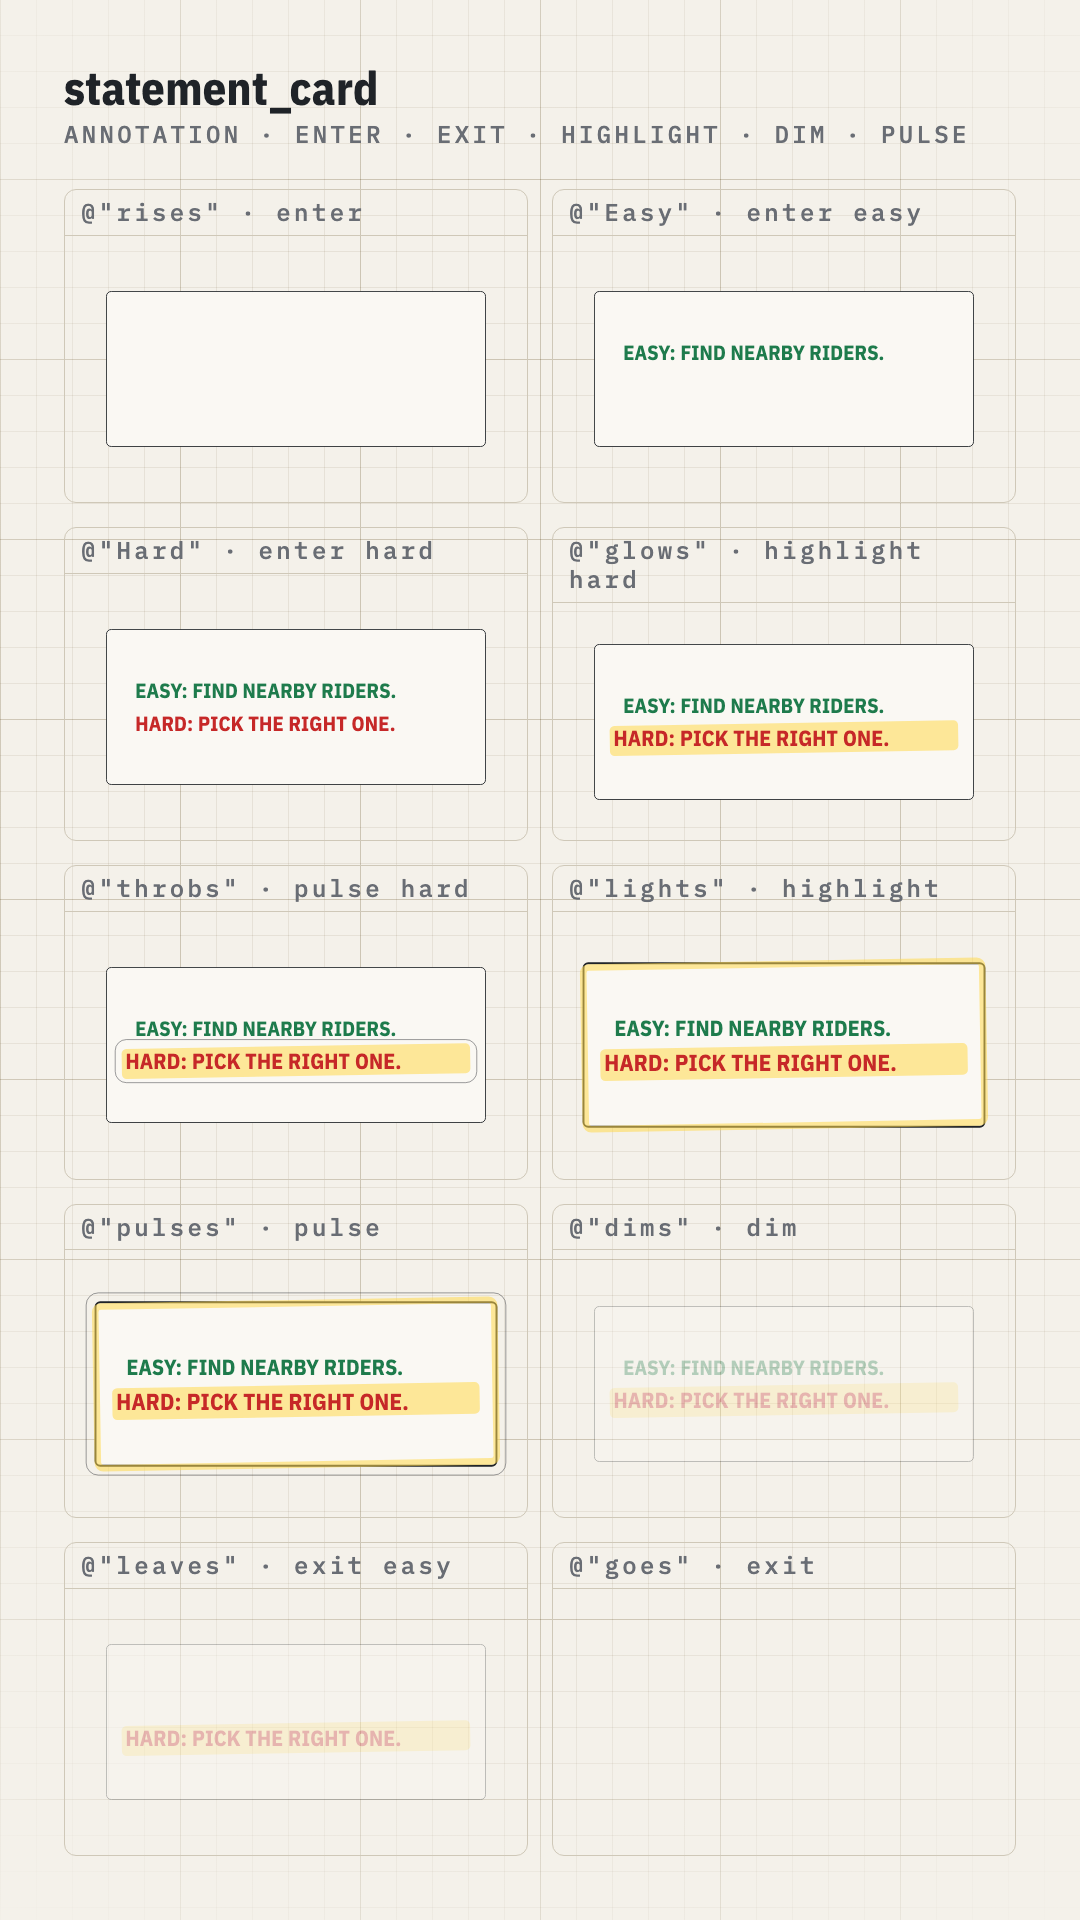
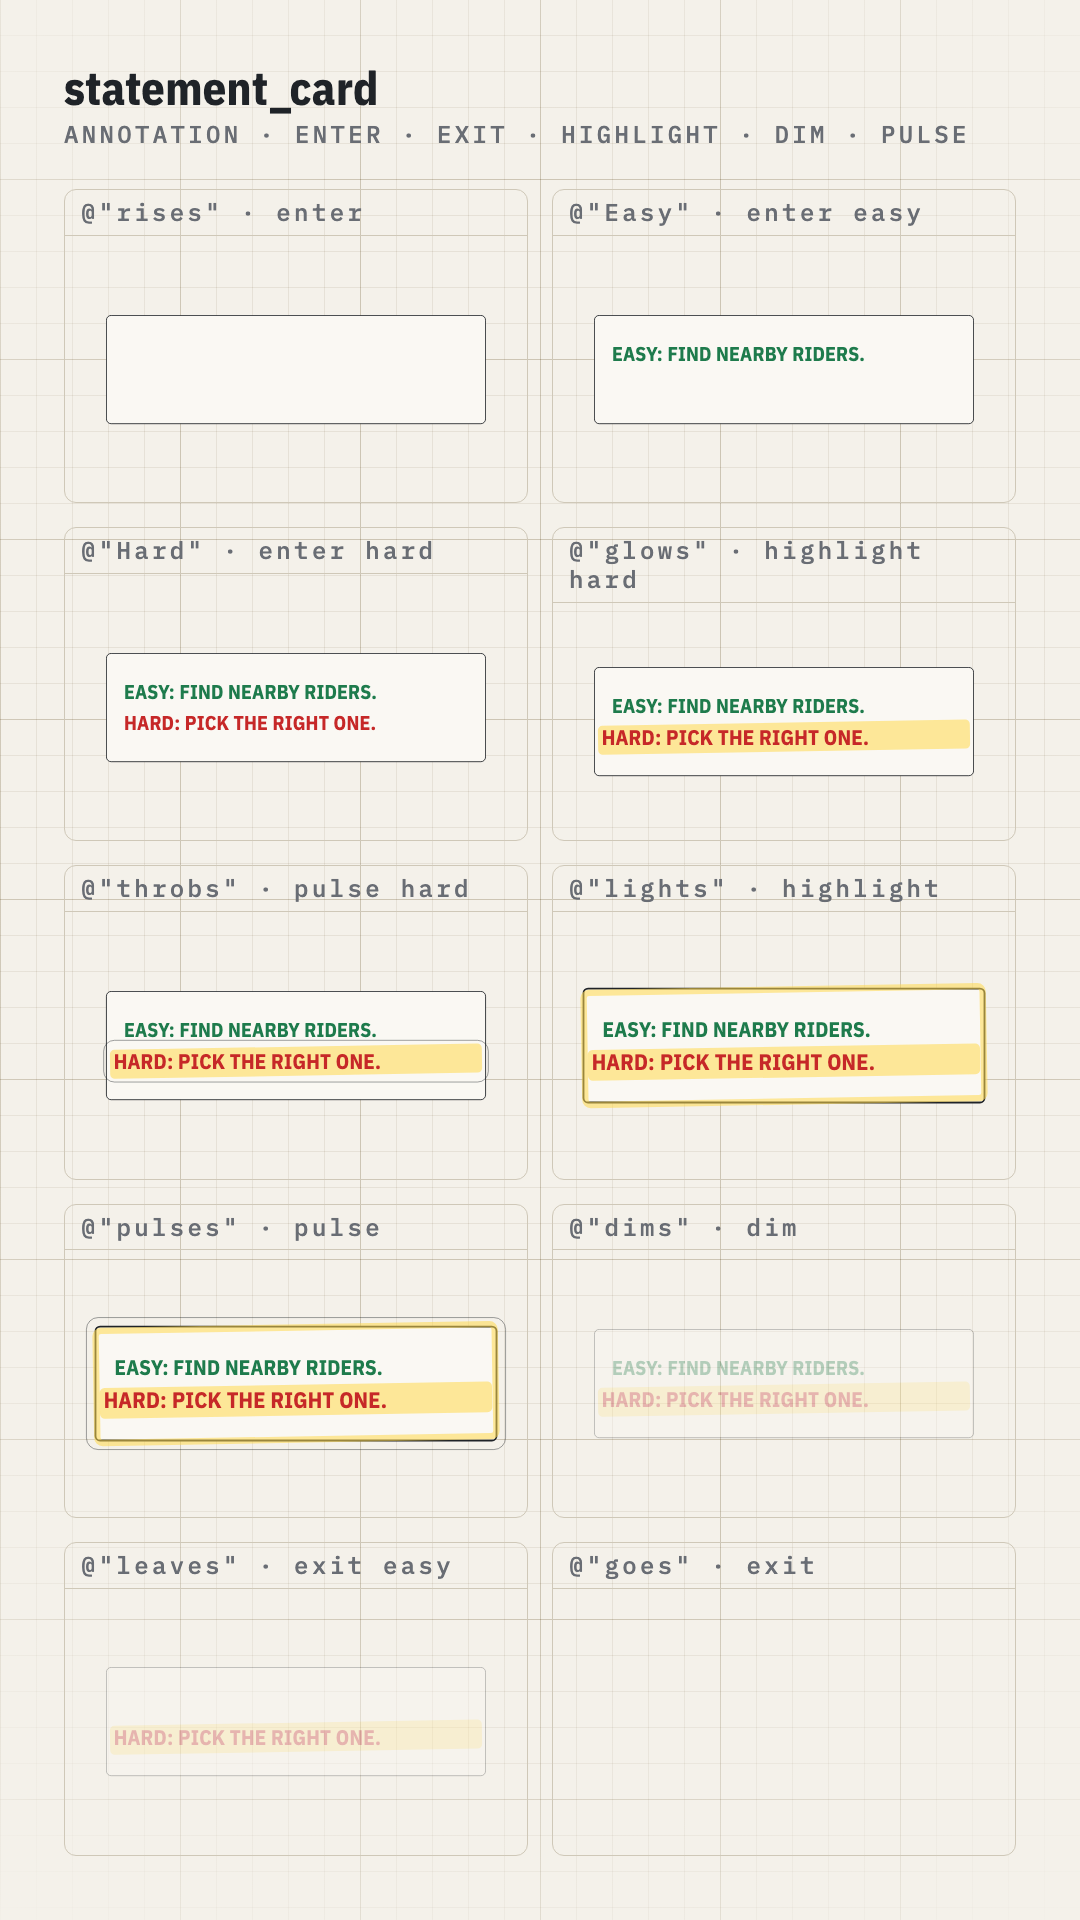
P1A.7b: statement_card at display size; scrim review frames
statement_card lines use the headline display style and the card spans the
stage less a space.md gutter on each side; long lines word-wrap
(wrappedRows) instead of shrinking. Size hints and the catalogue follow:
preferred width is the full span, min width the widest word.

The inset_panel and statement_card beats of InsetRevealBoard get a map_base
behind them, and docs/primitives/overlay-scrim-{statement,inset}.png show one
mid-beat frame of each (scene + scrim + overlay) for reviewing scrim strength.

diff --git a/packages/renderer/src/primitives/statement-card/definition.ts b/packages/renderer/src/primitives/statement-card/definition.ts
@@ -1,12 +1,12 @@
 import { z } from 'zod';
-import type { Theme } from '../../theme/index.ts';
+import { safeAreas, type Theme } from '../../theme/index.ts';
 import { idsOf, lineText, PartIdSchema, partList, semanticProp } from '../common-props.ts';
-import { approxTextWidth, lineHeightPx } from '../measure.ts';
+import { lineHeightPx, widestWord, wrappedRows } from '../measure.ts';
 import { definePrimitive, type SizeHints } from '../types.ts';
 
 export const StatementLineSchema = z.strictObject({
   id: PartIdSchema,
-  text: lineText(32, 'One large line; wraps if the stage is narrow.'),
+  text: lineText(32, 'One large line at display size; wraps rather than shrinking.'),
   semantic: semanticProp('neutral', 'Colour of this line'),
 });
 
@@ -19,30 +19,46 @@ export const StatementCardPropsSchema = z.strictObject({
 });
 export type StatementCardProps = z.output<typeof StatementCardPropsSchema>;
 
-/** Widest the card grows (the stage is 936 px wide); longer lines wrap. */
-export const STATEMENT_MAX_WIDTH = 860;
-const MIN_WIDTH = 480;
+/** Text style of every line: the theme's largest display style; lines wrap, never shrink. */
+export const STATEMENT_STYLE = 'headline';
 
-/** Rows each line takes at the card's text width. */
-export function statementRows(
-  props: StatementCardProps,
-  theme: Theme,
-  textWidth: number,
-): number[] {
-  return props.lines.map((line) =>
-    Math.max(1, Math.ceil(approxTextWidth(theme, 'headline', line.text) / textWidth)),
-  );
+/** Padding inside the card's border: `x` left and right, `y` top and bottom. */
+export function statementPadding(theme: Theme): { x: number; y: number } {
+  return { x: theme.space.lg + theme.stroke.regular, y: theme.space.xl + theme.stroke.regular };
 }
 
+/** The card's full width: the stage less a `space.md` gutter on each side. */
+export function statementMaxWidth(theme: Theme): number {
+  return safeAreas(theme).stage.width - 2 * theme.space.md;
+}
+
+/** Card height at `width`, with every line word-wrapped at the headline size. */
+export function statementHeight(props: StatementCardProps, theme: Theme, width: number): number {
+  const pad = statementPadding(theme);
+  const textWidth = width - 2 * pad.x;
+  const rows = props.lines.reduce(
+    (sum, line) => sum + wrappedRows(theme, STATEMENT_STYLE, line.text, textWidth),
+    0,
+  );
+  const gaps = (props.lines.length - 1) * theme.space.md;
+  return rows * lineHeightPx(theme, STATEMENT_STYLE) + gaps + 2 * pad.y;
+}
+
+/**
+ * A big moment spans the stage: preferred width is the full stage less gutters. It may narrow to
+ * its widest word (lines wrap further, the text never shrinks).
+ */
 export function statementCardSizeHints(props: StatementCardProps, theme: Theme): SizeHints {
-  const { space, stroke } = theme;
-  const pad = space.xl + stroke.regular;
-  const widest = Math.max(...props.lines.map((l) => approxTextWidth(theme, 'headline', l.text)));
-  const width = Math.min(STATEMENT_MAX_WIDTH, Math.max(MIN_WIDTH, widest + 2 * pad));
-  const rows = statementRows(props, theme, width - 2 * pad).reduce((a, b) => a + b, 0);
-  const gaps = (props.lines.length - 1) * space.md;
-  const height = rows * lineHeightPx(theme, 'headline') + gaps + 2 * pad;
-  return { minWidth: width, minHeight: height, preferredWidth: width, preferredHeight: height };
+  const pad = statementPadding(theme);
+  const preferredWidth = statementMaxWidth(theme);
+  const words = props.lines.map((l) => widestWord(theme, STATEMENT_STYLE, l.text));
+  const minWidth = Math.min(preferredWidth, Math.max(...words) + 2 * pad.x);
+  return {
+    minWidth,
+    minHeight: statementHeight(props, theme, minWidth),
+    preferredWidth,
+    preferredHeight: statementHeight(props, theme, preferredWidth),
+  };
 }
 
 export const statementCardPrimitive = definePrimitive({
@@ -55,8 +71,9 @@ export const statementCardPrimitive = definePrimitive({
   parts: { actions: ['enter', 'exit', 'highlight', 'pulse'], ids: (props) => idsOf(props.lines) },
   description: {
     summary:
-      'One to three large `lines` on a card over the dimmed scene, each line in its own ' +
-      'colour meaning. `enter` fades it in with a slight rise. Lines are parts: `enter` a ' +
+      'One to three large `lines` at display size on a card that spans the stage, over the ' +
+      'dimmed scene, each line in its own colour meaning. Long lines wrap; the text never ' +
+      'shrinks. `enter` fades it in with a slight rise. Lines are parts: `enter` a ' +
       'line on its word to build the statement up, highlight or pulse the one that matters. ' +
       'It is an overlay: everything else on the board dims while it shows.',
     whenToUse:

diff --git a/packages/renderer/src/primitives/statement-card/statement-card.test.ts b/packages/renderer/src/primitives/statement-card/statement-card.test.ts
@@ -1,0 +1,50 @@
+import { describe, expect, it } from 'vitest';
+import { getTheme, listThemes, safeAreas } from '../../theme/index.ts';
+import { lineHeightPx } from '../measure.ts';
+import {
+  STATEMENT_STYLE,
+  statementCardSizeHints,
+  StatementCardPropsSchema,
+  statementHeight,
+  statementMaxWidth,
+} from './definition.ts';
+
+const card = (...texts: string[]) =>
+  StatementCardPropsSchema.parse({
+    lines: texts.map((text, i) => ({ id: `line-${i}`, text })),
+  });
+
+describe('statement_card size hints', () => {
+  it.each(listThemes().map((t) => [t.id]))('spans the stage less gutters in %s', (id) => {
+    const theme = getTheme(id);
+    const hints = statementCardSizeHints(card('WHY?'), theme);
+    expect(hints.preferredWidth).toBe(safeAreas(theme).stage.width - 2 * theme.space.md);
+    expect(hints.preferredWidth).toBe(statementMaxWidth(theme));
+  });
+
+  it('draws lines in the largest display text style', () => {
+    expect(STATEMENT_STYLE).toBe('headline');
+    const theme = getTheme();
+    for (const style of ['title', 'chapter', 'body'] as const) {
+      expect(theme.text[STATEMENT_STYLE].size).toBeGreaterThan(theme.text[style].size);
+    }
+  });
+
+  it('grows taller, not smaller in type, when a line wraps', () => {
+    const theme = getTheme();
+    const row = lineHeightPx(theme, STATEMENT_STYLE);
+    const short = statementCardSizeHints(card('EASY: FIND RIDERS.'), theme);
+    const long = statementCardSizeHints(card('HARD: PICK THE RIGHT RIDER, FAST'), theme);
+    expect(long.preferredWidth).toBe(short.preferredWidth);
+    expect(long.preferredHeight - short.preferredHeight).toBe(row);
+  });
+
+  it('may narrow to its widest word, wrapping more', () => {
+    const theme = getTheme();
+    const props = card('EASY: FIND NEARBY RIDERS.', 'HARD: PICK THE RIGHT ONE.');
+    const hints = statementCardSizeHints(props, theme);
+    expect(hints.minWidth).toBeLessThan(hints.preferredWidth);
+    expect(hints.minHeight).toBeGreaterThan(hints.preferredHeight);
+    expect(hints.minHeight).toBe(statementHeight(props, theme, hints.minWidth));
+  });
+});

diff --git a/packages/renderer/src/primitives/statement-card/StatementCard.tsx b/packages/renderer/src/primitives/statement-card/StatementCard.tsx
@@ -5,7 +5,7 @@ import type { PrimitiveComponentProps } from '../component-props.ts';
 import { partState, type PartState } from '../element-state.ts';
 import { riseView } from '../overlay.ts';
 import { cardSurfaceCss } from '../surface.ts';
-import type { StatementCardProps } from './definition.ts';
+import { STATEMENT_STYLE, statementPadding, type StatementCardProps } from './definition.ts';
 
 type Line = StatementCardProps['lines'][number];
 
@@ -17,6 +17,7 @@ export function StatementCard({
   state,
 }: PrimitiveComponentProps<StatementCardProps>) {
   const rise = riseView(state, theme.space.lg);
+  const pad = statementPadding(theme);
   return (
     <div
       style={{
@@ -31,7 +32,7 @@ export function StatementCard({
         flexDirection: 'column',
         justifyContent: 'center',
         gap: theme.space.md,
-        padding: theme.space.xl,
+        padding: `${pad.y - theme.stroke.regular}px ${pad.x - theme.stroke.regular}px`,
       }}
     >
       <BoxMark theme={theme} levels={markLevels(state)} radius={theme.radius.md} size={box} />
@@ -52,8 +53,9 @@ function StatementLine({ theme, line, part }: LineProps) {
     <div
       style={{
         ...markHostCss(theme),
-        ...textCss(theme, 'headline'),
+        ...textCss(theme, STATEMENT_STYLE),
         position: 'relative',
+        overflowWrap: 'break-word',
         color: colour,
         opacity: rise.opacity,
         transform: rise.transform,

diff --git a/packages/renderer/src/primitives/measure.test.ts b/packages/renderer/src/primitives/measure.test.ts
@@ -1,6 +1,6 @@
 import { describe, expect, it } from 'vitest';
 import { getTheme } from '../theme/index.ts';
-import { approxTextWidth } from './measure.ts';
+import { approxTextWidth, widestWord, wrappedRows } from './measure.ts';
 
 describe('approxTextWidth', () => {
   it("uses the role's advanceEm plus the style's letter spacing", () => {
@@ -14,5 +14,24 @@ describe('approxTextWidth', () => {
     const dark = approxTextWidth(getTheme('blueprint-dark'), 'title', 'API GATEWAY');
     const paper = approxTextWidth(getTheme('drafting-paper'), 'title', 'API GATEWAY');
     expect(Math.abs(paper - dark) / dark).toBeLessThan(0.03);
+  });
+});
+
+describe('wrappedRows', () => {
+  const theme = getTheme();
+  const text = 'HARD: PICK THE RIGHT ONE.';
+
+  it('keeps text on one row when it fits', () => {
+    expect(wrappedRows(theme, 'headline', text, approxTextWidth(theme, 'headline', text))).toBe(1);
+  });
+
+  it('breaks at word boundaries, never inside a word', () => {
+    const width = approxTextWidth(theme, 'headline', 'HARD: PICK THE');
+    expect(wrappedRows(theme, 'headline', text, width)).toBe(2);
+    expect(wrappedRows(theme, 'headline', text, widestWord(theme, 'headline', text))).toBe(5);
+  });
+
+  it('gives an over-long word a row of its own', () => {
+    expect(wrappedRows(theme, 'headline', 'A SUPERCALIFRAGILISTIC B', 100)).toBe(3);
   });
 });

diff --git a/packages/renderer/src/primitives/measure.ts b/packages/renderer/src/primitives/measure.ts
@@ -14,3 +14,32 @@ export function lineHeightPx(theme: Theme, style: TextStyleName): number {
   const { size, lineHeight } = theme.text[style];
   return Math.ceil(size * lineHeight);
 }
+
+/**
+ * Rows `text` takes when it wraps at word boundaries within `width` px (greedy, like CSS). A word
+ * wider than the row gets a row of its own. At least 1.
+ */
+export function wrappedRows(
+  theme: Theme,
+  style: TextStyleName,
+  text: string,
+  width: number,
+): number {
+  let rows = 1;
+  let row = '';
+  for (const word of text.split(/\s+/).filter(Boolean)) {
+    const candidate = row ? `${row} ${word}` : word;
+    if (row && approxTextWidth(theme, style, candidate) > width) {
+      rows += 1;
+      row = word;
+    } else {
+      row = candidate;
+    }
+  }
+  return rows;
+}
+
+/** Width of the widest single word: text never wraps narrower than this. */
+export function widestWord(theme: Theme, style: TextStyleName, text: string): number {
+  return Math.max(0, ...text.split(/\s+/).map((word) => approxTextWidth(theme, style, word)));
+}

diff --git a/docs/catalogue.md b/docs/catalogue.md
@@ -226,7 +226,7 @@ A titled card for one component of a system (a service, server, database, client
 
 **Family:** annotation · **Actions:** `enter`, `exit`, `highlight`, `dim`, `pulse`
 
-One to three large `lines` on a card over the dimmed scene, each line in its own colour meaning. `enter` fades it in with a slight rise. Lines are parts: `enter` a line on its word to build the statement up, highlight or pulse the one that matters. It is an overlay: everything else on the board dims while it shows.
+One to three large `lines` at display size on a card that spans the stage, over the dimmed scene, each line in its own colour meaning. Long lines wrap; the text never shrinks. `enter` fades it in with a slight rise. Lines are parts: `enter` a line on its word to build the statement up, highlight or pulse the one that matters. It is an overlay: everything else on the board dims while it shows.
 
 **When to use:** A planted question ("Why not just pick the nearest rider?"), a two-line takeaway ("Easy: find riders. Hard: pick the right one."), a verdict before the next chapter.
 
@@ -240,10 +240,10 @@ One to three large `lines` on a card over the dimmed scene, each line in its own
 | --- | --- | --- | --- |
 | `lines` | array | yes | One to three lines, top to bottom, each with its own colour meaning. (min items 1, max items 3) |
 | `lines[].id` | string | yes | Part id, unique in this element; events act on it with params.parts. (max length 64) |
-| `lines[].text` | string | yes | One large line; wraps if the stage is narrow. (min length 1, max length 32) |
+| `lines[].text` | string | yes | One large line at display size; wraps rather than shrinking. (min length 1, max length 32) |
 | `lines[].semantic` | `neutral` \| `focus` \| `ok` \| `problem` \| `concept` | no | Colour of this line: neutral, focus, ok, problem or concept. (default `"neutral"`) |
 
-**Size hint** (example, drafting-paper): 710 × 255 px (min 710 × 255).
+**Size hint** (example, drafting-paper): 888 × 255 px (min 662 × 255).
 
 **Example:**
 
